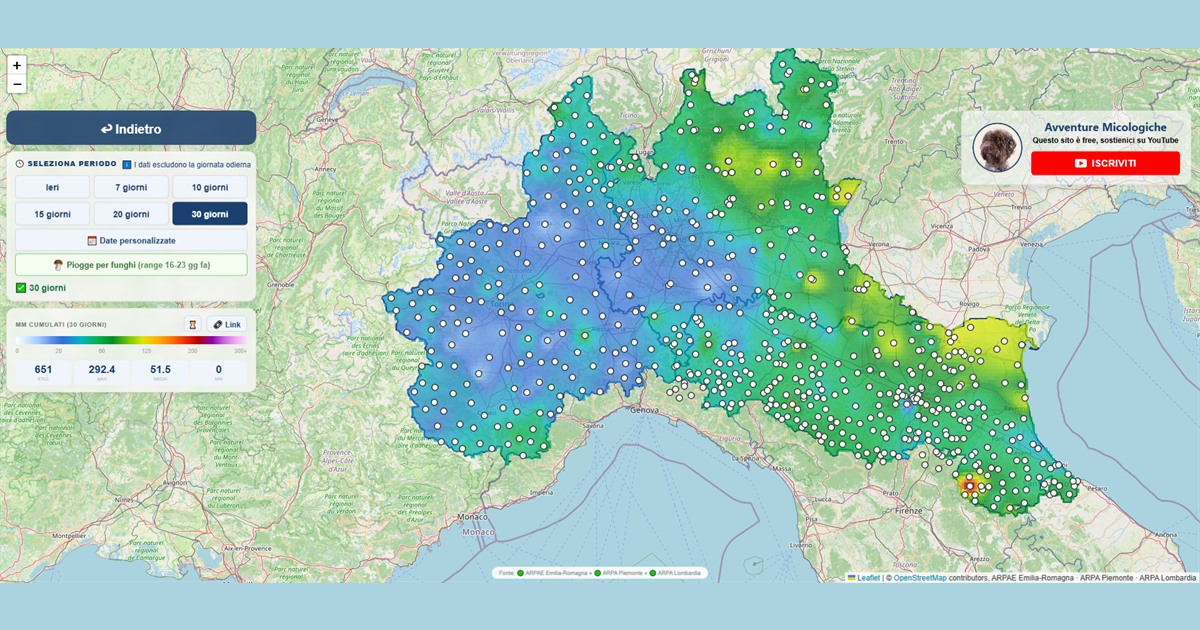
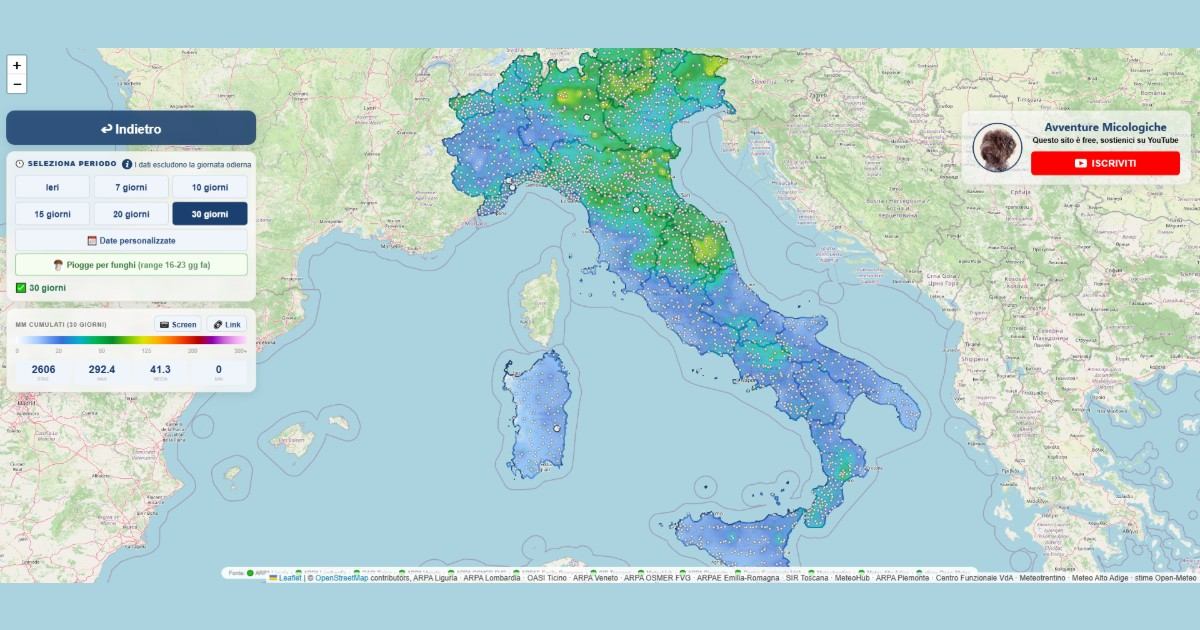
Nuova anteprima social: Italia intera a 30 giorni (22 regioni, 2606 stazioni)
Screenshot dell'utente a 1920x856 adattato a 1200x630 con fasce chiare
campionate dal colore del mare. Ottenuto alzando temporaneamente in locale il
limite delle 3 regioni, con pallini stazione ridotti e campionamento IDW
disattivato (il campione a 320 su 2606 stazioni saltava fasce di latitudine e
bucava la heatmap a bande orizzontali); modifiche solo locali, ripristinate
dopo lo scatto. Meta: ?v=20260730b per la cache dei social, alt aggiornato.

diff --git a/index.html b/index.html
@@ -21,23 +21,27 @@
   <meta name="description" content="Mappa interattiva delle precipitazioni in Italia con dati da stazioni meteo reali. Pianifica le tue uscite funghi.">
   <meta property="og:title" content="Mappa Pluviometrica Italia | Avventure Micologiche">
   <meta property="og:description" content="Mappa interattiva con dati meteo reali per pianificare ogni uscita. Trova le zone dove ha piovuto di più.">
-  <!-- Anteprima rifatta il 30 luglio 2026: Piemonte + Lombardia + Emilia a 30
-       giorni, 1200x630 (schermata del sito, adattata in larghezza con due fasce
-       chiare sopra e sotto per rispettare il formato social 1.91:1).
+  <!-- Anteprima rifatta il 30 luglio 2026 (pomeriggio): ITALIA INTERA a 30
+       giorni, tutte e 22 le regioni, 2606 stazioni — screenshot dell'utente a
+       1920x856, adattato in larghezza a 1200x630 con due fasce chiare sopra e
+       sotto (colore campionato dal mare) per il formato social 1.91:1.
+       Ottenuta alzando temporaneamente in locale il limite delle 3 regioni,
+       con pallini stazione ridotti e campionamento IDW disattivato (modifiche
+       solo locali, ripristinate subito dopo lo scatto).
        Il ?v= serve a far riscaricare l'immagine ai social, che la tengono in
        cache per URL e altrimenti continuerebbero a mostrare la vecchia.
        NB: qui l'URL punta al dominio di TEST, così l'anteprima si può davvero
        provare. PROMUOVENDO IN PRODUZIONE va rimesso il dominio di prod, come
        per PILOT_DATA_BASE. -->
-  <meta property="og:image" content="https://avventurepluvio-test.netlify.app/preview.jpg?v=20260730">
+  <meta property="og:image" content="https://avventurepluvio-test.netlify.app/preview.jpg?v=20260730b">
   <meta property="og:image:width" content="1200">
   <meta property="og:image:height" content="630">
   <meta property="og:image:type" content="image/jpeg">
-  <meta property="og:image:alt" content="Mappa delle precipitazioni degli ultimi 30 giorni in Piemonte, Lombardia ed Emilia Romagna">
+  <meta property="og:image:alt" content="Mappa delle precipitazioni degli ultimi 30 giorni in tutta Italia">
   <meta property="og:url" content="https://precipitazioni.avventuremicologiche.it">
   <meta property="og:type" content="website">
   <meta name="twitter:card" content="summary_large_image">
-  <meta name="twitter:image" content="https://avventurepluvio-test.netlify.app/preview.jpg?v=20260730">
+  <meta name="twitter:image" content="https://avventurepluvio-test.netlify.app/preview.jpg?v=20260730b">
   <meta name="theme-color" content="#1b3f6e">
 <meta charset="UTF-8">
 <meta name="viewport" content="width=device-width, initial-scale=1.0">
